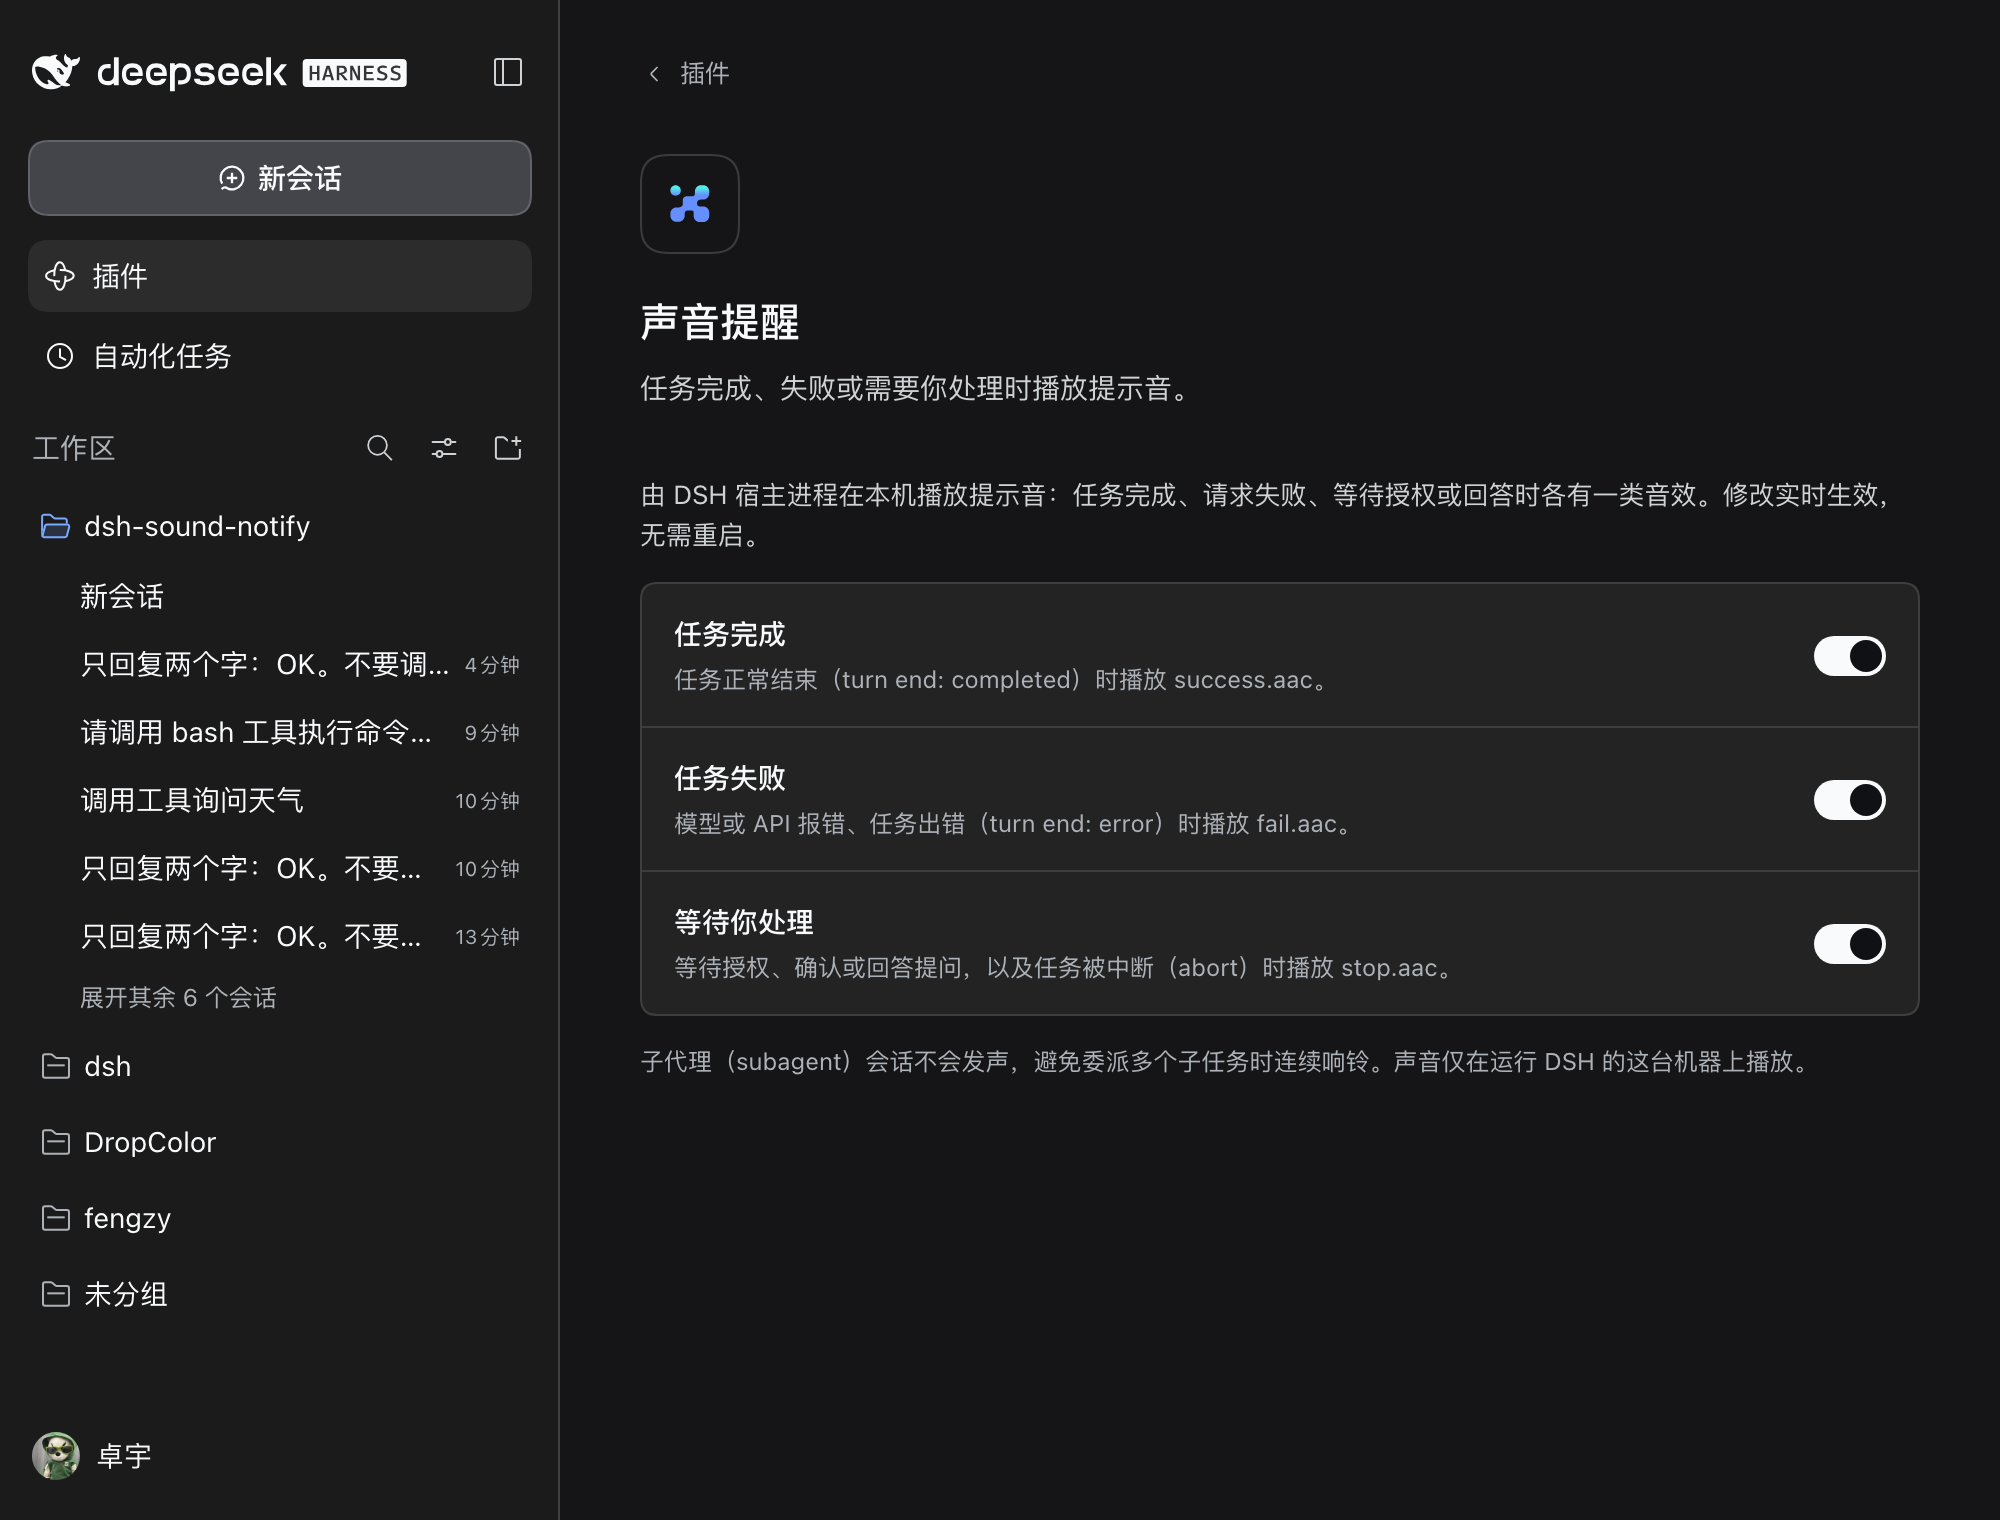
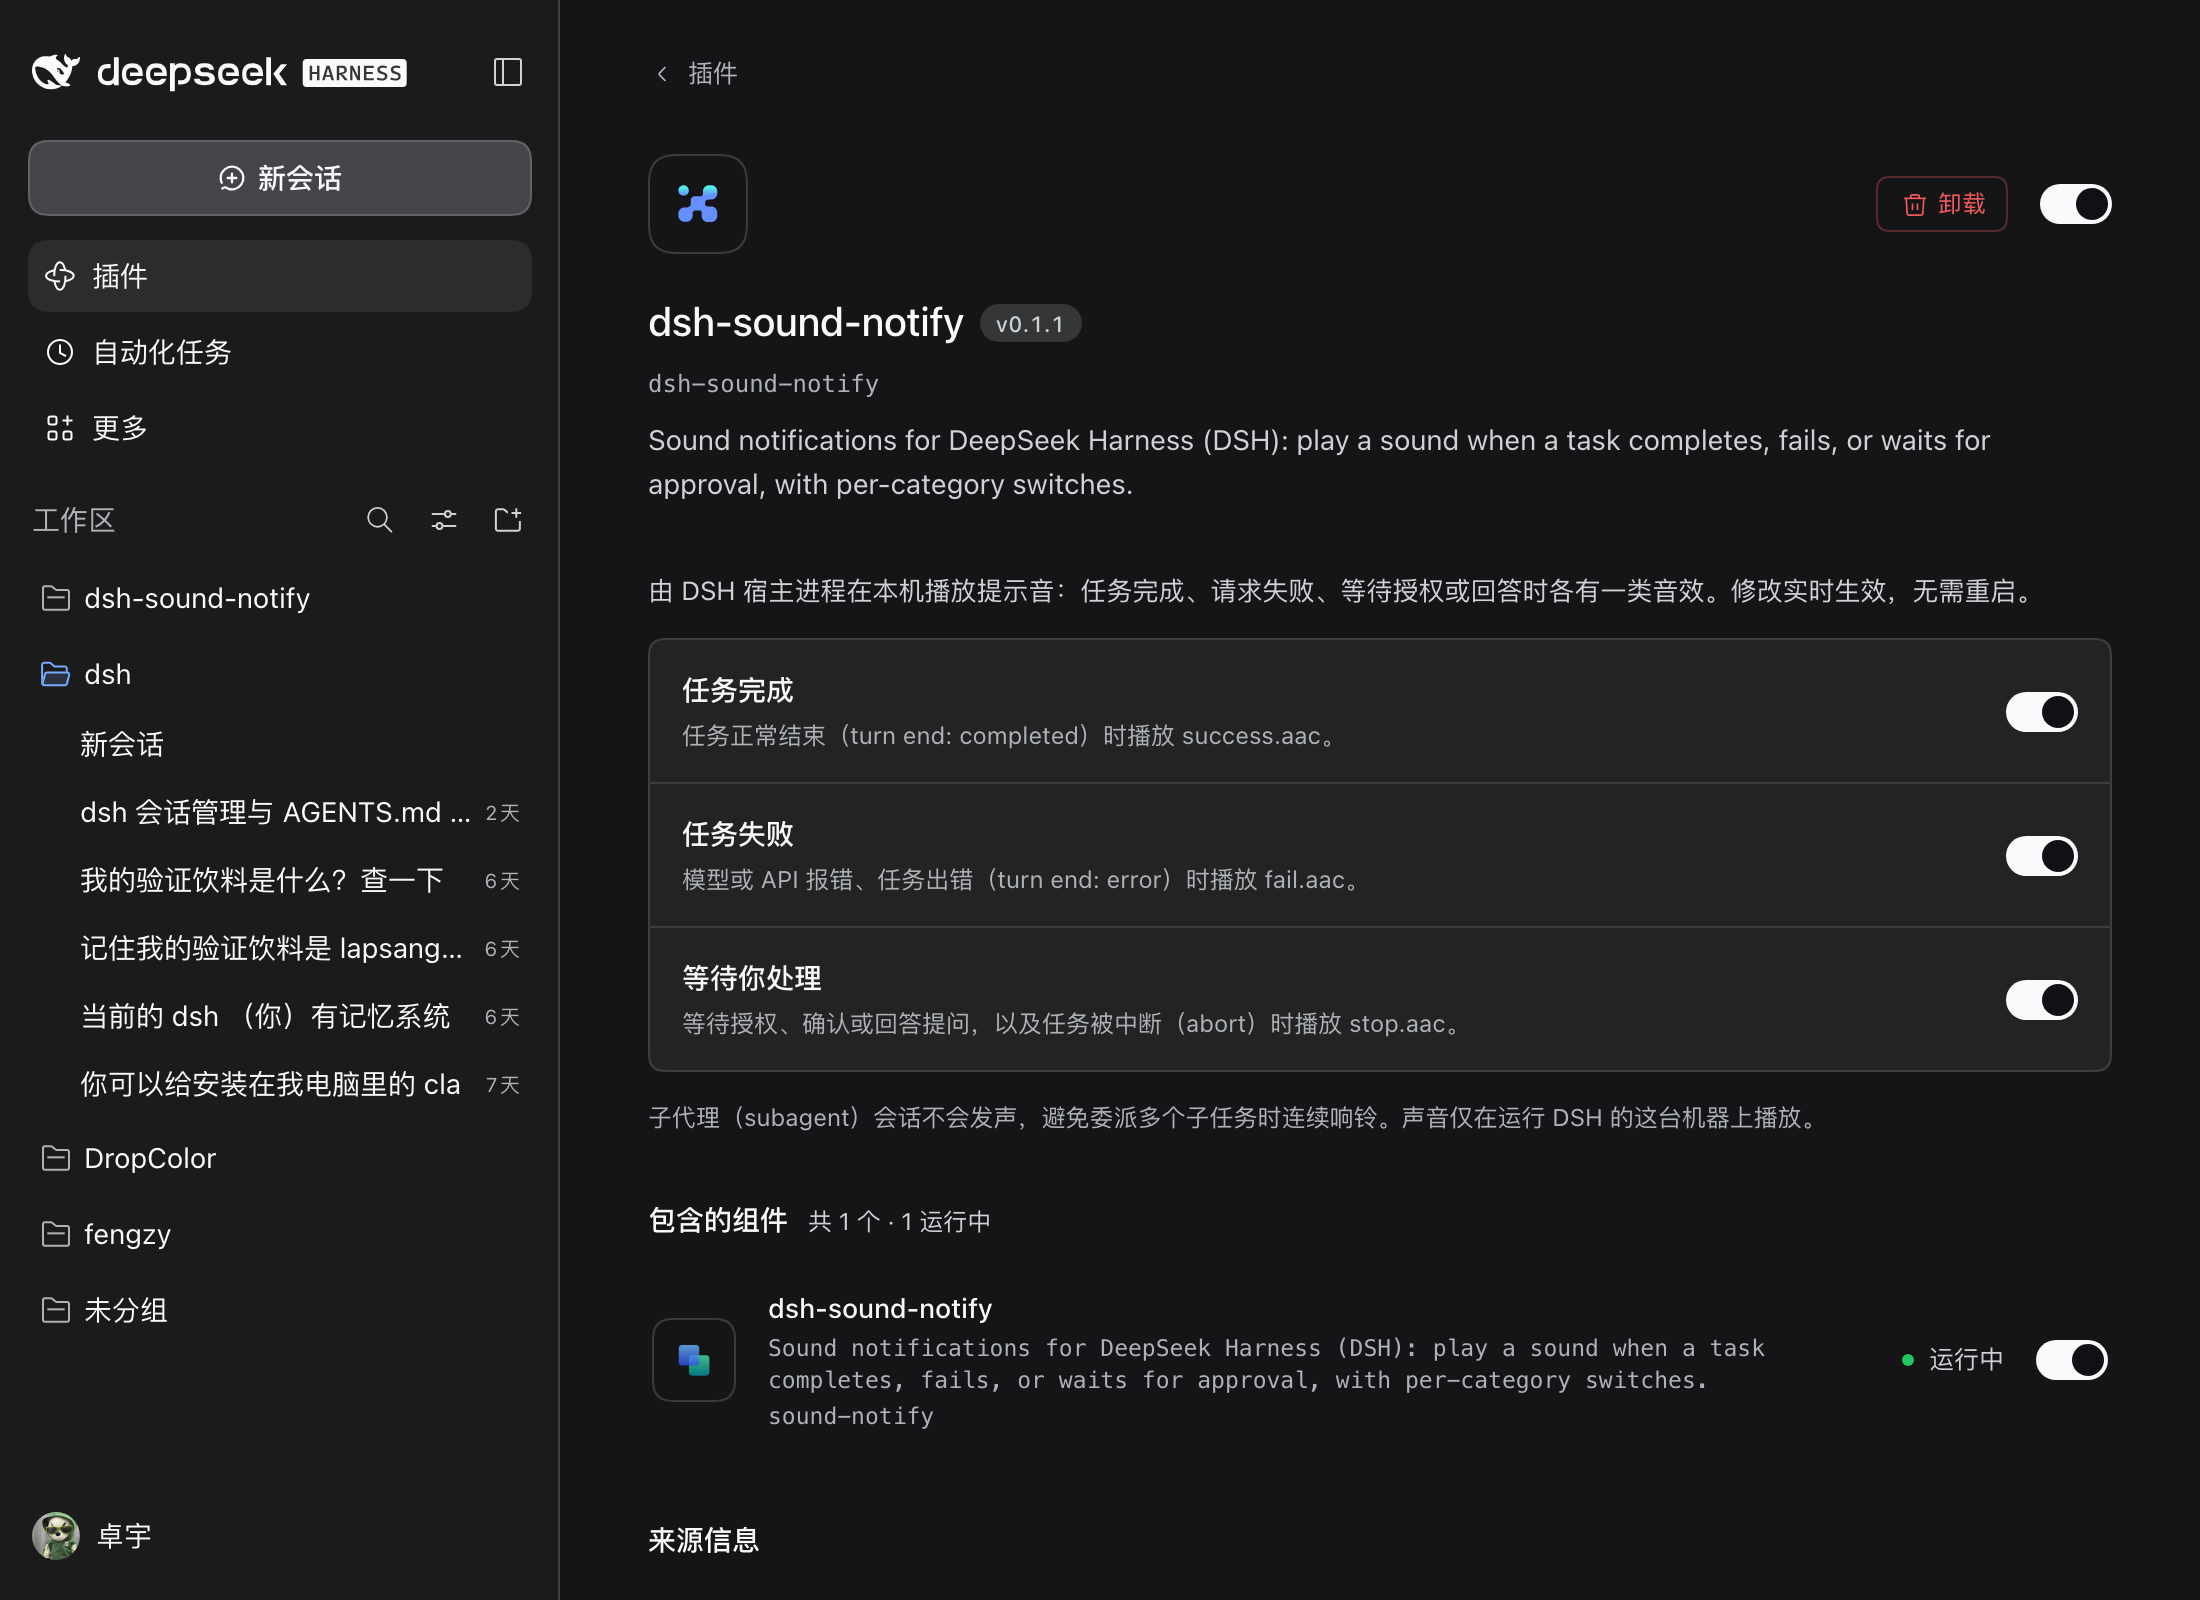
docs: document managed third-party installation
- screenshots now show the package page under Plugins → Installed plugins
- desktop instructions use the in-app Add plugin flow instead of copying files
- settings location and compatibility table updated
- CHANGELOG 0.1.1 release link

diff --git a/README.md b/README.md
@@ -8,7 +8,7 @@
 
 Sound notifications for **DeepSeek Harness (DSH)**. When a DSH task finishes, fails, or stops to wait for you, this plugin plays a short sound on the machine running DSH — and gives you a switch for each category.
 
-![Settings: Plugins → Sound notifications](docs/settings.png)
+![Settings: Plugins → Installed plugins → dsh-sound-notify](docs/settings.png)
 
 ## Why
 
@@ -35,39 +35,31 @@ Playback happens in the **DSH host process** with the OS audio player (macOS `af
 
 ## Install
 
-### Desktop app (Electron-owned `desktop` profile)
+### Desktop app (`desktop` profile)
 
-The `dsh` CLI refuses to manage the reserved `desktop` profile, so use the bundled script (idempotent, backs up the patch file):
+Install it as a **managed third-party plugin** from inside DSH — do not copy files into the profile by hand:
+
+1. Open DSH → left sidebar → **Plugins**.
+2. Click **Add plugin**.
+3. Paste the repository address: `https://github.com/hifengzy/dsh-sound-notify` (or the release tarball URL; the npm package name works after publication).
+4. Install, then restart DSH if it asks.
+
+The package then appears under **Plugins → Installed plugins** with its own uninstall and update controls. The three sound switches are on its package page: **Plugins → Installed plugins → dsh-sound-notify**.
+
+> **Why not copy files?** The Plugins page records a managed install in `$DSH_HOME/profiles/desktop/package.json` (`dependencies` plus `dsh.profile.bundles`). Files copied into `node_modules` by hand are invisible to the manager — no installed-plugin row, no uninstall button — and the next DSH desktop update prunes them because they are not a declared dependency.
+
+<details>
+<summary>Upgrading from the v0.1.0 manual install?</summary>
+
+v0.1.0 copied the package into the profile by hand. Run the migration helper, then install through the Plugins page:
 
 ```bash
 git clone https://github.com/hifengzy/dsh-sound-notify.git
 cd dsh-sound-notify
-./scripts/install-desktop.sh
+./scripts/migrate-desktop-legacy-install.sh
 ```
 
-Then **restart the DSH desktop app**. The desktop host does not hot-mount a newly added profile plugin, so the first activation needs a restart.
-
-After restarting: **Plugins → Sound notifications** (sidebar Plugins page) shows the three switches; finish any task to hear `success.aac`.
-
-<details>
-<summary>Manual desktop install (what the script does)</summary>
-
-```bash
-DSH_HOME="${DSH_HOME:-$HOME/.dsh}"
-PROFILE="$DSH_HOME/profiles/desktop"
-DEST="$PROFILE/node_modules/dsh-sound-notify"
-
-cp "$PROFILE/cordis.patch.yml" "$PROFILE/cordis.patch.yml.bak.$(date +%s)"
-mkdir -p "$DEST" && rm -rf "${DEST:?}"/*
-cp -R lib sounds package.json cordis.patch.yml README.md README.zh.md LICENSE "$DEST"/
-
-grep -q "id: sound-notify" "$PROFILE/cordis.patch.yml" || cat >> "$PROFILE/cordis.patch.yml" <<'YAML'
-
-- insert:
-    - id: sound-notify
-      name: 'dsh-sound-notify'
-YAML
-```
+The helper removes the unmanaged copy and mount row while keeping your saved switch values, then prints the managed install steps (paste the repository address into **Add plugin**).
 
 </details>
 
@@ -96,7 +88,7 @@ dsh --profile web --dump-config | grep -A2 sound-notify
 
 ## Settings
 
-**DSH 0.2.x**: sidebar **Plugins → Sound notifications**. The values live in the plugin entry's `config` in the profile patch (`$DSH_HOME/profiles/<profile>/cordis.patch.yml`) and are read live on every notification.
+**DSH 0.2.x**: **Plugins → Installed plugins → dsh-sound-notify** (the package page, beside its install/enable controls). The values live in the plugin entry's `config` in the profile patch (`$DSH_HOME/profiles/<profile>/cordis.patch.yml`) and are read live on every notification.
 
 **DSH 0.1.x**: **Settings → Sound notifications** (registered `sound-notify` settings namespace in `$DSH_HOME/settings.yaml`).
 
@@ -134,7 +126,7 @@ Playback failures (missing file, no audio player) are logged too instead of fail
 
 | DSH | Settings surface | Install |
 | --- | --- | --- |
-| 0.2.x (current, incl. desktop 0.2.1-rc.2) | Plugins page card over volatile plugin `Config` | `dsh plugin add` / GitHub / tarball / desktop script |
+| 0.2.x (current, incl. desktop 0.2.1-rc.3) | Installed-plugin package page over volatile `Config` | app **Add plugin** / `dsh plugin add` / GitHub / tarball |
 | 0.1.x | dedicated settings section over a registered namespace | `dsh plugin add` / GitHub |
 
 The host half only observes the event bus (`session/event`, `agent/status`, `user-questions/request`) and never edits the session log or influences approval decisions (the question waterfall listener always calls `next()`).

diff --git a/CHANGELOG.md b/CHANGELOG.md
@@ -43,4 +43,5 @@ Initial public release.
 - Installation helpers for the Electron-owned desktop profile and CLI-managed profiles.
 - Test suite (31 `node:test` cases), packaging self-check, CI and release workflows.
 
+[0.1.1]: https://github.com/hifengzy/dsh-sound-notify/releases/tag/v0.1.1
 [0.1.0]: https://github.com/hifengzy/dsh-sound-notify/releases/tag/v0.1.0
